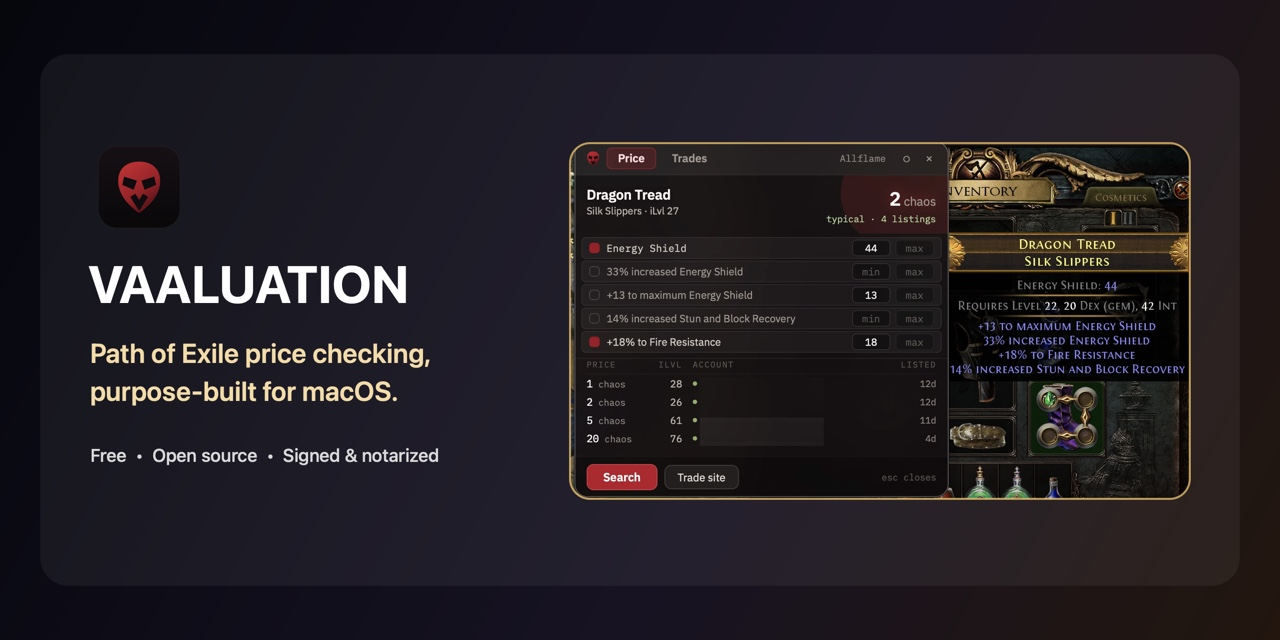
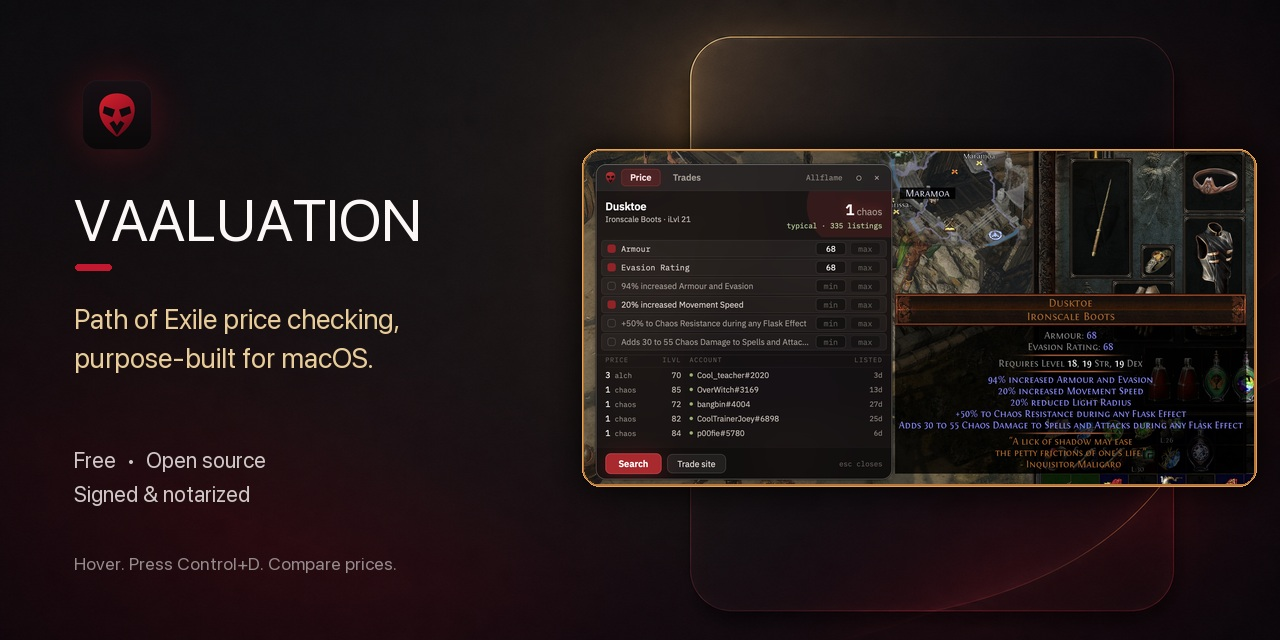
Fix clipped overlay action buttons (#2)
* Fix clipped overlay action buttons

* Refresh repository social preview

* Use contextual in-game preview

diff --git a/apps/macos/src/overlay/PriceCheckOverlay.tsx b/apps/macos/src/overlay/PriceCheckOverlay.tsx
@@ -131,6 +131,17 @@ export function PriceCheckOverlay({
   const [parseError, setParseError] = useState<string | null>(null);
   const [filters, setFilters] = useState<SelectableFilter[]>([]);
   const [state, setState] = useState<SearchState>({ status: 'idle' });
+  const [scrollContentHeight, setScrollContentHeight] = useState(0);
+  const [footerHeight, setFooterHeight] = useState(0);
+
+  // Ask the native panel for the natural height, while keeping the footer
+  // outside the scrolling region. If the panel reaches its native height
+  // cap, only the results scroll; the primary actions remain fully visible.
+  useEffect(() => {
+    if (scrollContentHeight > 0 && footerHeight > 0) {
+      onContentHeight(scrollContentHeight + footerHeight);
+    }
+  }, [footerHeight, onContentHeight, scrollContentHeight]);
 
   const league = settings.leagueId ?? defaultLeagueId(leagues);
 
@@ -327,11 +338,16 @@ export function PriceCheckOverlay({
 
   return (
     <View style={styles.panel}>
-      {/* Measured rather than guessed: the height used to be a hand-tuned
-          constant added to the modifier list, which counted neither the
-          listing table nor the header. Everything the tab draws is inside,
-          footer included, so the shell only has to add its own strip. */}
-      <View onLayout={(event) => onContentHeight(event.nativeEvent.layout.height)}>
+      {/* Measure the complete scrollable region and the fixed footer
+          separately. The native panel may cap the requested height; keeping
+          the actions outside this scroller prevents that cap from clipping
+          the buttons on modifier-heavy items. */}
+      <ScrollView
+        style={styles.contentScroller}
+        contentContainerStyle={styles.content}
+        onContentSizeChange={(_width, height) => setScrollContentHeight(height)}
+        nestedScrollEnabled
+      >
         <View style={styles.header}>
           {/* Crimson bloom behind the numeral — the panel's one piece of glow. */}
           <View style={styles.bloom} pointerEvents="none" />
@@ -511,34 +527,37 @@ export function PriceCheckOverlay({
             </ScrollView>
           </View>
         ) : null}
+      </ScrollView>
 
-        <View style={styles.footer}>
-          <Pressable
-            style={[styles.search, item === null && styles.disabled]}
-            onPress={() => {
-              void runSearch();
-            }}
-            disabled={item === null || state.status === 'searching'}
-          >
-            {state.status === 'searching' ? (
-              <ActivityIndicator size="small" color={theme.actionText} />
-            ) : (
-              <Text style={styles.searchText}>Search</Text>
-            )}
-          </Pressable>
-          <Pressable
-            style={[styles.ghost, state.status !== 'done' && styles.disabled]}
-            onPress={() => {
-              if (state.status === 'done' && league !== null) {
-                void Linking.openURL(tradeSearchUrl(league, state.queryId));
-              }
-            }}
-            disabled={state.status !== 'done'}
-          >
-            <Text style={styles.ghostText}>Trade site</Text>
-          </Pressable>
-          <Text style={styles.hint}>esc closes</Text>
-        </View>
+      <View
+        style={styles.footer}
+        onLayout={(event) => setFooterHeight(event.nativeEvent.layout.height)}
+      >
+        <Pressable
+          style={[styles.search, item === null && styles.disabled]}
+          onPress={() => {
+            void runSearch();
+          }}
+          disabled={item === null || state.status === 'searching'}
+        >
+          {state.status === 'searching' ? (
+            <ActivityIndicator size="small" color={theme.actionText} />
+          ) : (
+            <Text style={styles.searchText}>Search</Text>
+          )}
+        </Pressable>
+        <Pressable
+          style={[styles.ghost, state.status !== 'done' && styles.disabled]}
+          onPress={() => {
+            if (state.status === 'done' && league !== null) {
+              void Linking.openURL(tradeSearchUrl(league, state.queryId));
+            }
+          }}
+          disabled={state.status !== 'done'}
+        >
+          <Text style={styles.ghostText}>Trade site</Text>
+        </Pressable>
+        <Text style={styles.hint}>esc closes</Text>
       </View>
     </View>
   );
@@ -547,6 +566,8 @@ export function PriceCheckOverlay({
 function makeStyles(theme: Theme) {
   return StyleSheet.create({
     panel: { flex: 1 },
+    contentScroller: { flex: 1 },
+    content: { flexGrow: 1 },
     header: {
       flexDirection: 'row',
       alignItems: 'flex-start',
@@ -727,6 +748,7 @@ function makeStyles(theme: Theme) {
       lineHeight: 16,
     },
     footer: {
+      flexShrink: 0,
       flexDirection: 'row',
       alignItems: 'center',
       gap: spacing.md,
